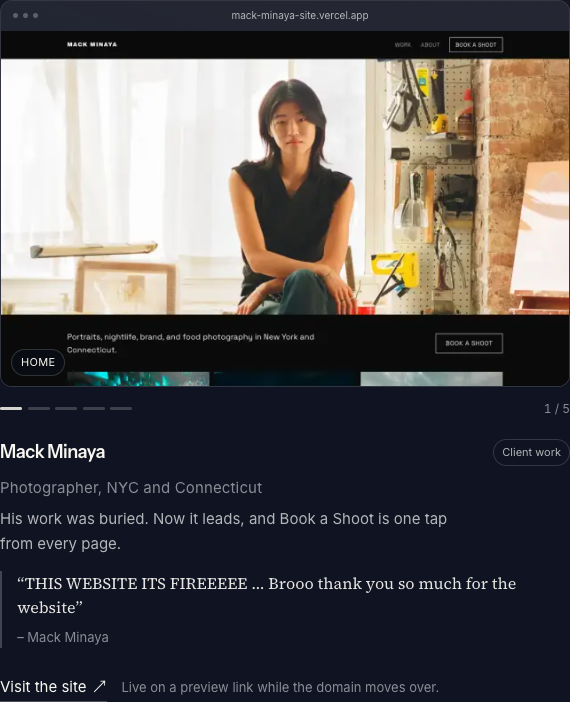
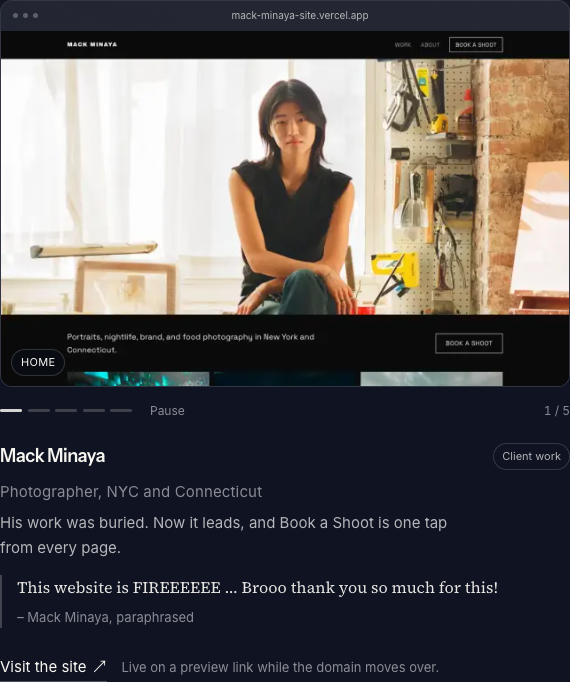
Label Mack's reaction as a paraphrase, and fix interface-guideline findings
Keshav wanted the reaction reworded for grammar and to drop an expletive.
The wording is his; what changes is the framing. Reworded text inside
quotation marks attributed to a named client is what the client-work rule
and FTC testimonial guidance cover, so a reaction that is not literal now
renders without quote marks and is labelled as paraphrased. An entry's
`quote` field still carries curly quotes for genuine verbatim text, so
promoting an approved sentence later is a one-field move.

Interface-guidelines review of the touched files, six fixes:

- The position bar claimed role="tablist"/role="tab" with no tabpanel to
  control. It is a group of seek buttons with aria-current instead.
- Autoplay ran about seventeen seconds per site with no way to stop it that
  a visitor could discover. Adds a Pause control, hidden when reduced
  motion already disables the rotation.
- Placeholders now end with an ellipsis, and the website field shows the
  pattern it wants rather than restating its label.
- The email field disables spellcheck, which was underlining valid
  addresses as though they were errors.
- A failed submission moves focus to the error instead of leaving a
  keyboard user on the button with no idea what happened.

diff --git a/src/components/websites/ConceptForm.jsx b/src/components/websites/ConceptForm.jsx
@@ -1,6 +1,6 @@
 'use client';
 
-import { useState } from 'react';
+import { useEffect, useRef, useState } from 'react';
 import { useForm } from '@formspree/react';
 import { websiteCopy as copy } from '../../config/websites';
 
@@ -12,6 +12,7 @@ const inputClasses =
 const labelClasses = 'block text-text-primary text-sm font-medium mb-2';
 
 export default function ConceptForm() {
+  const errorRef = useRef(null);
   const [state, handleSubmit] = useForm(FORMSPREE_FORM_ID);
   const [name, setName] = useState('');
 
@@ -84,7 +85,9 @@ export default function ConceptForm() {
           name="email"
           type="email"
           required
+          inputMode="email"
           autoComplete="email"
+          spellCheck={false}
           disabled={state.submitting}
           className={inputClasses}
         />
@@ -101,7 +104,7 @@ export default function ConceptForm() {
           type="text"
           inputMode="url"
           autoComplete="url"
-          placeholder="Your website URL"
+          placeholder="yourbusiness.com…"
           disabled={state.submitting}
           className={inputClasses}
         />
@@ -116,7 +119,7 @@ export default function ConceptForm() {
           name="business"
           required
           rows={4}
-          placeholder="What do you do? A sentence or two is plenty."
+          placeholder="What do you do? A sentence or two is plenty…"
           disabled={state.submitting}
           className={`${inputClasses} resize-none`}
         />
@@ -157,7 +160,7 @@ export default function ConceptForm() {
           {copy.formNote}
         </p>
         {state.errors && (
-          <p role="alert" className="text-red-400 text-sm mt-3">
+          <p ref={errorRef} tabIndex={-1} role="alert" className="text-red-400 text-sm mt-3">
             Something went wrong and your request didn't send. Your answers are
             still here, so please try again.
           </p>

diff --git a/src/config/websites.js b/src/config/websites.js
@@ -30,10 +30,14 @@ export const websiteExamples = [
     summary: 'His work was buried. Now it leads, and Book a Shoot is one tap from every page.',
     status: 'Live on a preview link while the domain moves over.',
     href: 'https://mack-minaya-site.vercel.app',
-    // Mack's own words from messages after the site went up, excerpted to
-    // contiguous fragments with an ellipsis marking the cut. Nothing reworded;
-    // only the opening expletive is dropped. Permission confirmed 2026-09-17.
-    quote: 'THIS WEBSITE ITS FIREEEEE \u2026 Brooo thank you so much for the website',
+    // Mack's reaction after the site went up, tidied for grammar and to drop
+    // an expletive (Keshav, 2026-09-17). Because the wording is no longer
+    // his literal text, it is rendered WITHOUT quotation marks and labelled
+    // as a paraphrase: attributing reworded text to a named client inside
+    // quote marks is what the client-work house rule and FTC testimonial
+    // guidance both cover. If he ever approves this exact sentence, move it
+    // to `quote` and it can carry quote marks.
+    reaction: 'This website is FIREEEEEE \u2026 Brooo thank you so much for this!',
     shots: [
       { src: '/work/mack-minaya/home.webp', page: 'Home', alt: 'Mack Minaya homepage: a full-width studio portrait above a row of gallery tiles.' },
       { src: '/work/mack-minaya/work.webp', page: 'Work', alt: 'Work index page showing photography galleries by category.' },

diff --git a/src/app/websites/websites.module.css b/src/app/websites/websites.module.css
@@ -1039,7 +1039,8 @@
   border-left: 2px solid rgba(248, 246, 240, 0.22);
 }
 
-.exampleQuote blockquote {
+.exampleQuote blockquote,
+.exampleQuote .paraphrase {
   margin: 0;
   font-family: var(--font-source-serif), Georgia, serif;
   font-size: 1rem;
@@ -1047,8 +1048,10 @@
   color: #e6e5e1;
 }
 
-.exampleQuote blockquote::before { content: '\201C'; }
-.exampleQuote blockquote::after { content: '\201D'; }
+/* Curly quotes only on verbatim quotes. A paraphrase carries none, so it
+   never reads as the client's literal words. */
+.verbatim::before { content: '\201C'; }
+.verbatim::after { content: '\201D'; }
 
 .exampleQuote figcaption {
   margin-top: 0.4rem;
@@ -1058,3 +1061,28 @@
 
 /* En dash, not em: the house rule bans em dashes in rendered copy. */
 .exampleQuote figcaption::before { content: '\2013\00a0'; }
+
+/* Autoplay pause control. Required because the rotation runs well past five
+   seconds; hovering or clicking a frame also stops it, but neither is
+   discoverable. */
+.playToggle {
+  border: 0;
+  background: none;
+  padding: 2px 4px;
+  margin-left: 0.25rem;
+  color: #898c94;
+  font: inherit;
+  font-size: 0.75rem;
+  cursor: pointer;
+  border-radius: 3px;
+  transition: color 200ms ease;
+}
+
+.playToggle:hover {
+  color: #f8f6f0;
+}
+
+.playToggle:focus-visible {
+  outline: 2px solid rgba(248, 246, 240, 0.7);
+  outline-offset: 2px;
+}

diff --git a/src/components/websites/SitePreview.jsx b/src/components/websites/SitePreview.jsx
@@ -123,20 +123,29 @@ export default function SitePreview({ shots, name, href }) {
       </div>
 
       <div className={styles.previewControls}>
-        <div className={styles.dots} role="tablist" aria-label={`${name} pages`}>
+        <div className={styles.dots} role="group" aria-label={`${name} pages`}>
           {shots.map((shot, i) => (
             <button
               key={shot.src}
               type="button"
-              role="tab"
-              aria-selected={i === index}
-              aria-label={shot.page}
+              aria-current={i === index ? 'true' : undefined}
+              aria-label={`Show ${shot.page}`}
               title={shot.page}
               className={`${styles.dot} ${i === index ? styles.dotActive : ''} ${i < index ? styles.dotSeen : ''}`}
               onClick={() => go(i, true)}
             />
           ))}
         </div>
+        {shots.length > 1 && !reduced && (
+          <button
+            type="button"
+            className={styles.playToggle}
+            aria-label={auto ? `Pause ${name} preview` : `Play ${name} preview`}
+            onClick={() => setAuto(a => !a)}
+          >
+            {auto ? 'Pause' : 'Play'}
+          </button>
+        )}
         <span className={styles.shotCount} aria-hidden="true">
           {index + 1} / {shots.length}
         </span>

diff --git a/src/app/websites/page.jsx b/src/app/websites/page.jsx
@@ -16,9 +16,14 @@ function Example({
     </div>
     <p className={styles.exampleLabel}>{example.label}</p>
     <p>{example.summary}</p>
-    {example.quote && <figure className={styles.exampleQuote}>
-      <blockquote>{example.quote}</blockquote>
-      <figcaption>{example.name}</figcaption>
+    {(example.quote || example.reaction) && <figure className={styles.exampleQuote}>
+      {example.quote
+        ? <blockquote className={styles.verbatim}>{example.quote}</blockquote>
+        : <p className={styles.paraphrase}>{example.reaction}</p>}
+      <figcaption>
+        {example.name}
+        {!example.quote && <span>, paraphrased</span>}
+      </figcaption>
     </figure>}
     <div className={styles.exampleFoot}>
       <a className={styles.exampleLink} href={example.href} target="_blank" rel="noopener noreferrer">
